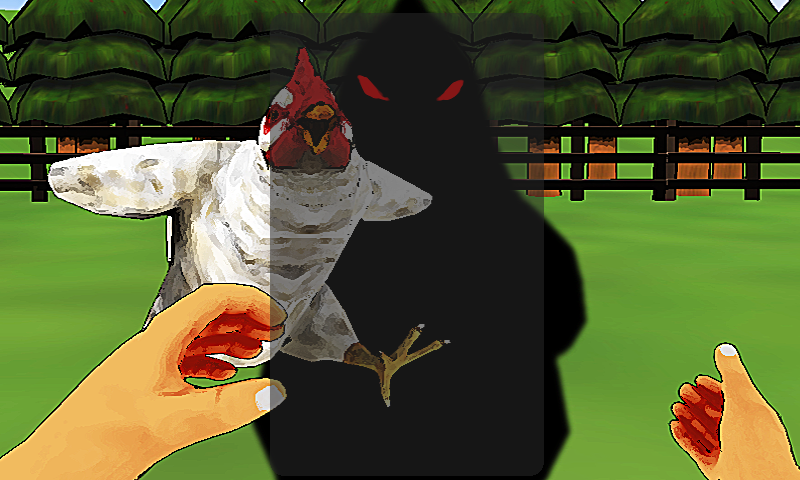
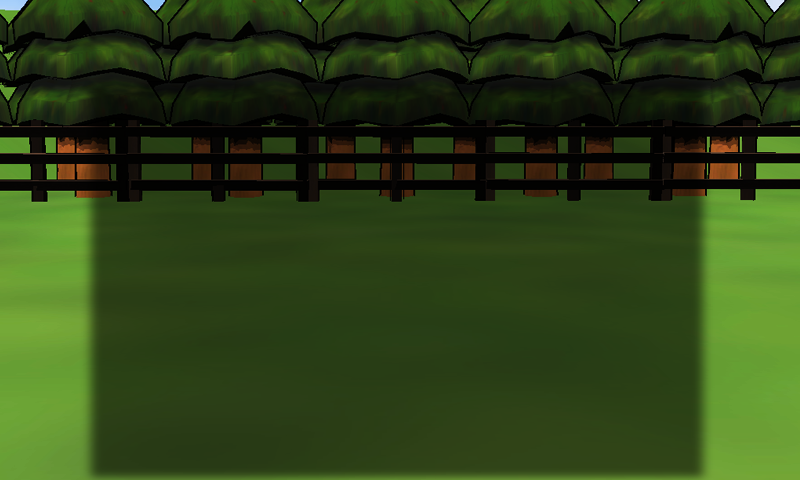
Added animated title at main menu. Changed background image to simplify it. Temporarily hard coded the spacing for the menu entries to move them down.

diff --git a/Cluck/Cluck/Screens/MenuScreen.cs b/Cluck/Cluck/Screens/MenuScreen.cs
@@ -28,9 +28,12 @@ namespace Cluck
 
         List<MenuEntry> menuEntries = new List<MenuEntry>();
         int selectedEntry = 0;
+        float titleSize = 1;
         string menuTitle;
         Boolean normalEscape;
+        Boolean enlarge;
         BackgroundTexture background;
+        MenuOverLay overlay;
 
         InputAction menuUp;
         InputAction menuDown;
@@ -57,6 +60,11 @@ namespace Cluck
             set { background = value; }
         }
 
+        protected MenuOverLay Overlay
+        {
+            get { return overlay; }
+            set { overlay = value; }
+        }
 
         #endregion
 
@@ -69,6 +77,7 @@ namespace Cluck
         public MenuScreen(string menuTitle)
         {
             background = BackgroundTexture.black;
+            overlay = MenuOverLay.nothing;
             this.menuTitle = menuTitle;
             normalEscape = true;
             TransitionOnTime = TimeSpan.FromSeconds(0.5);
@@ -90,6 +99,8 @@ namespace Cluck
                 new Buttons[] { Buttons.B, Buttons.Back },
                 new Keys[] { Keys.Escape },
                 true);
+
+            enlarge = true;
         }
 
 
@@ -253,6 +264,7 @@ namespace Cluck
             SpriteBatch spriteBatch = ScreenManager.SpriteBatch;
             SpriteFont font = ScreenManager.Font;
             Texture2D backgroundTex = null;
+            Texture2D overlayTex = null;
 
             switch (background)
             {
@@ -275,8 +287,20 @@ namespace Cluck
                     break;
             }
 
+            switch (overlay)
+            {
+                case MenuOverLay.mainTitle:
+                    overlayTex = ScreenManager.GameTitleTexture;
+                    break;
+                case MenuOverLay.nothing:
+                    break;
+                default:
+                    break;
+            }
+
             Viewport viewport = ScreenManager.GraphicsDevice.Viewport;
             Rectangle fullscreen = new Rectangle(0, 0, viewport.Width, viewport.Height);
+            Rectangle title = new Rectangle(viewport.Width/4 - (int)(10 * titleSize), 0, (int)(3 * viewport.Width / 5 * titleSize), (int)(3 * viewport.Height / 5 * titleSize));
 
 
             spriteBatch.Begin();
@@ -311,6 +335,33 @@ namespace Cluck
             spriteBatch.DrawString(font, menuTitle, titlePosition, titleColor, 0,
                                    titleOrigin, titleScale, SpriteEffects.None, 0);
 
+            if (overlayTex != null)
+            {
+                spriteBatch.Draw(overlayTex, title, new Color(TransitionAlpha, TransitionAlpha, TransitionAlpha));
+            }
+
+            if (enlarge)
+            {
+                if (titleSize < 1.15f)
+                {
+                    titleSize += 0.02f;
+                }
+                else
+                {
+                    enlarge = false;
+                }
+            }
+            else
+            {
+                if (titleSize > 0.90f)
+                {
+                    titleSize -= 0.02f;
+                }
+                else
+                {
+                    enlarge = true;
+                }
+            }
             spriteBatch.End();
         }
 

diff --git a/GameStateManagement/ScreenManager.cs b/GameStateManagement/ScreenManager.cs
@@ -32,6 +32,12 @@ namespace GameStateManagement
         white
     }
 
+    public enum MenuOverLay
+    {
+        mainTitle,
+        nothing
+    }
+
     /// <summary>
     /// The screen manager is a component which manages one or more GameScreen
     /// instances. It maintains a stack of screens, calls their Update and Draw
@@ -56,6 +62,9 @@ namespace GameStateManagement
         Texture2D betweenLevelTexture;
         Texture2D lostCampaignTexture;
         Texture2D wonCampaignTexture;
+
+        Texture2D gameTitleTexture;
+        Texture2D nothingTexture;
 
         bool isInitialized;
 
@@ -138,6 +147,14 @@ namespace GameStateManagement
             get { return blankTexture; }
         }
 
+        /// <summary>
+        /// Gets the Game title overlay texture.
+        /// </summary>
+        public Texture2D GameTitleTexture
+        {
+            get { return gameTitleTexture; }
+        }
+
 
         #endregion
 
@@ -183,6 +200,8 @@ namespace GameStateManagement
             betweenLevelTexture = content.Load<Texture2D>("betweenlevels");
             lostCampaignTexture = content.Load<Texture2D>("lostcampaign");
             wonCampaignTexture = content.Load<Texture2D>("woncampaign");
+
+            gameTitleTexture = content.Load<Texture2D>("mainmenuoverlay");
 
             // Tell each of the screens to load their content.
             foreach (GameScreen screen in screens)

diff --git a/Cluck/Cluck/Screens/MainMenuScreen.cs b/Cluck/Cluck/Screens/MainMenuScreen.cs
@@ -9,6 +9,7 @@
 
 #region Using Statements
 using Microsoft.Xna.Framework;
+using GameStateManagement;
 #endregion
 
 namespace Cluck
@@ -25,14 +26,15 @@ namespace Cluck
         /// Constructor fills in the menu contents.
         /// </summary>
         public MainMenuScreen()
-            : base("Cluck!")
+            : base("")
         {
+            Overlay = MenuOverLay.mainTitle;
             // Create our menu entries.
-            MenuEntry playTutorialMenuEntry = new MenuEntry("Tutorial");
-            MenuEntry playGameMenuEntry = new MenuEntry("Campaign");
-            MenuEntry playArcadeMenuEntry = new MenuEntry("Arcade");
-            MenuEntry optionsMenuEntry = new MenuEntry("Options");
-            MenuEntry exitMenuEntry = new MenuEntry("Exit");
+            MenuEntry playTutorialMenuEntry = new MenuEntry("\n\n\n\n\n\nTutorial");
+            MenuEntry playGameMenuEntry = new MenuEntry("\n\n\n\n\n\n\nCampaign");
+            MenuEntry playArcadeMenuEntry = new MenuEntry("\n\n\n\n\n\n\n\nArcade");
+            MenuEntry optionsMenuEntry = new MenuEntry("\n\n\n\n\n\n\n\n\nOptions");
+            MenuEntry exitMenuEntry = new MenuEntry("\n\n\n\n\n\n\n\n\nExit");
 
             // Hook up menu event handlers.
             playTutorialMenuEntry.Selected += PlayTutorialMenuEntrySelected;
